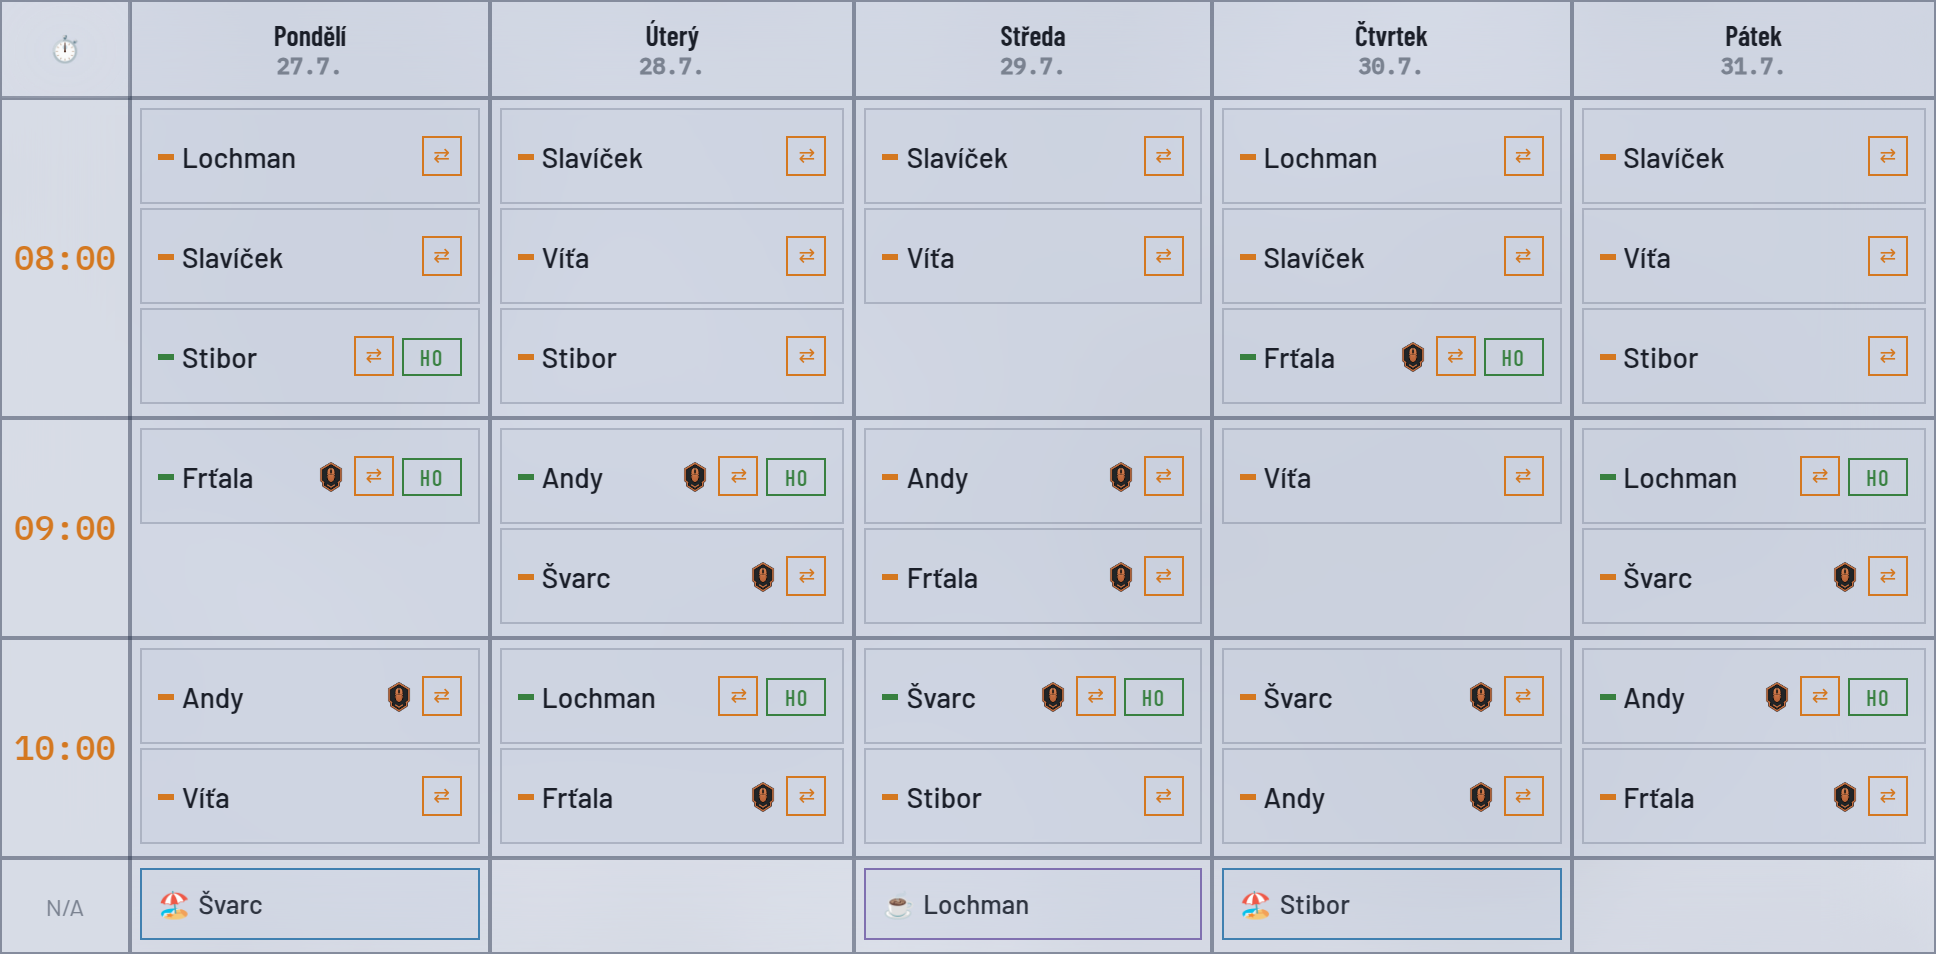
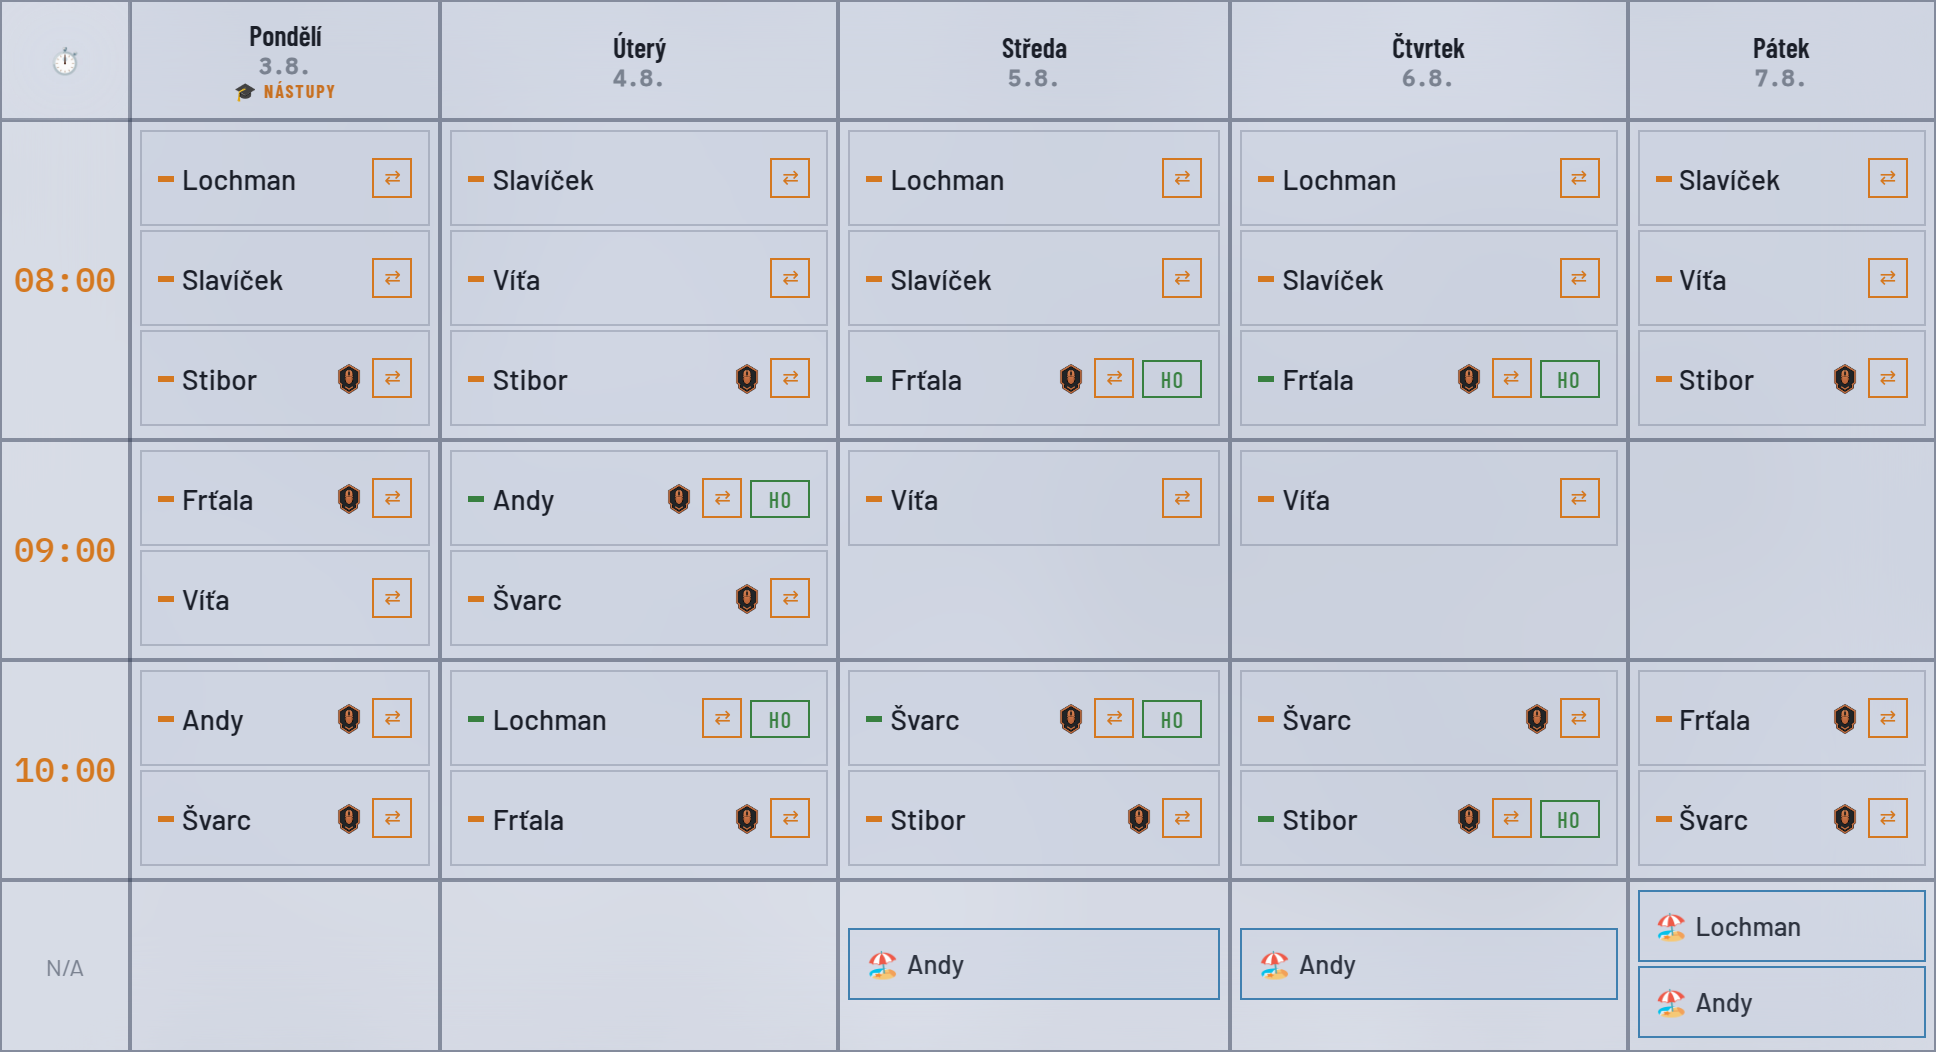
nahled: rozvrh na tyden od 03.08.2026

diff --git a/public/nahled/index.html b/public/nahled/index.html
@@ -1,18 +1,18 @@
 <!DOCTYPE html>
 <html lang="cs"><head><meta charset="utf-8">
 <meta name="viewport" content="width=device-width,initial-scale=1">
-<title>ShiftFlow — rozvrh na týden od 27.07.2026</title>
+<title>ShiftFlow — rozvrh na týden od 03.08.2026</title>
 <meta property="og:type" content="website">
 <meta property="og:site_name" content="ShiftFlow">
-<meta property="og:title" content="Rozvrh na týden od 27.07.2026">
+<meta property="og:title" content="Rozvrh na týden od 03.08.2026">
 <meta property="og:description" content="Aktuální rozpis směn pro příští týden. Klepnutím otevřeš plnou velikost.">
-<meta property="og:image" content="https://smenyjt.netlify.app/nahled/rozvrh.png?v=1785072026377">
+<meta property="og:image" content="https://smenyjt.netlify.app/nahled/rozvrh.png?v=1785496767712">
 <meta property="og:image:type" content="image/png">
 <meta property="og:image:width" content="1936">
-<meta property="og:image:height" content="954">
+<meta property="og:image:height" content="1052">
 <meta property="og:url" content="https://smenyjt.netlify.app/nahled/">
 <meta name="twitter:card" content="summary_large_image">
-<meta name="twitter:image" content="https://smenyjt.netlify.app/nahled/rozvrh.png?v=1785072026377">
+<meta name="twitter:image" content="https://smenyjt.netlify.app/nahled/rozvrh.png?v=1785496767712">
 <style>
  body{margin:0;background:#0c0c12;color:#e8e8f0;font-family:system-ui,-apple-system,'Segoe UI',sans-serif;
       display:flex;flex-direction:column;align-items:center;gap:14px;padding:16px}
@@ -22,8 +22,8 @@
  a{color:#6aa8d8;font-size:13px;text-decoration:none;margin-top:6px}
 </style></head>
 <body>
- <h1>Rozvrh na týden od 27.07.2026</h1>
- <img src="rozvrh.png?v=1785072026377" alt="Rozvrh směn na týden od 27.07.2026">
- <p>Aktualizováno 26. 7. 2026 15:20:16</p>
+ <h1>Rozvrh na týden od 03.08.2026</h1>
+ <img src="rozvrh.png?v=1785496767712" alt="Rozvrh směn na týden od 03.08.2026">
+ <p>Aktualizováno 31. 7. 2026 13:19:17</p>
  <a href="https://smenyjt.netlify.app">Otevřít ShiftFlow →</a>
 </body></html>
